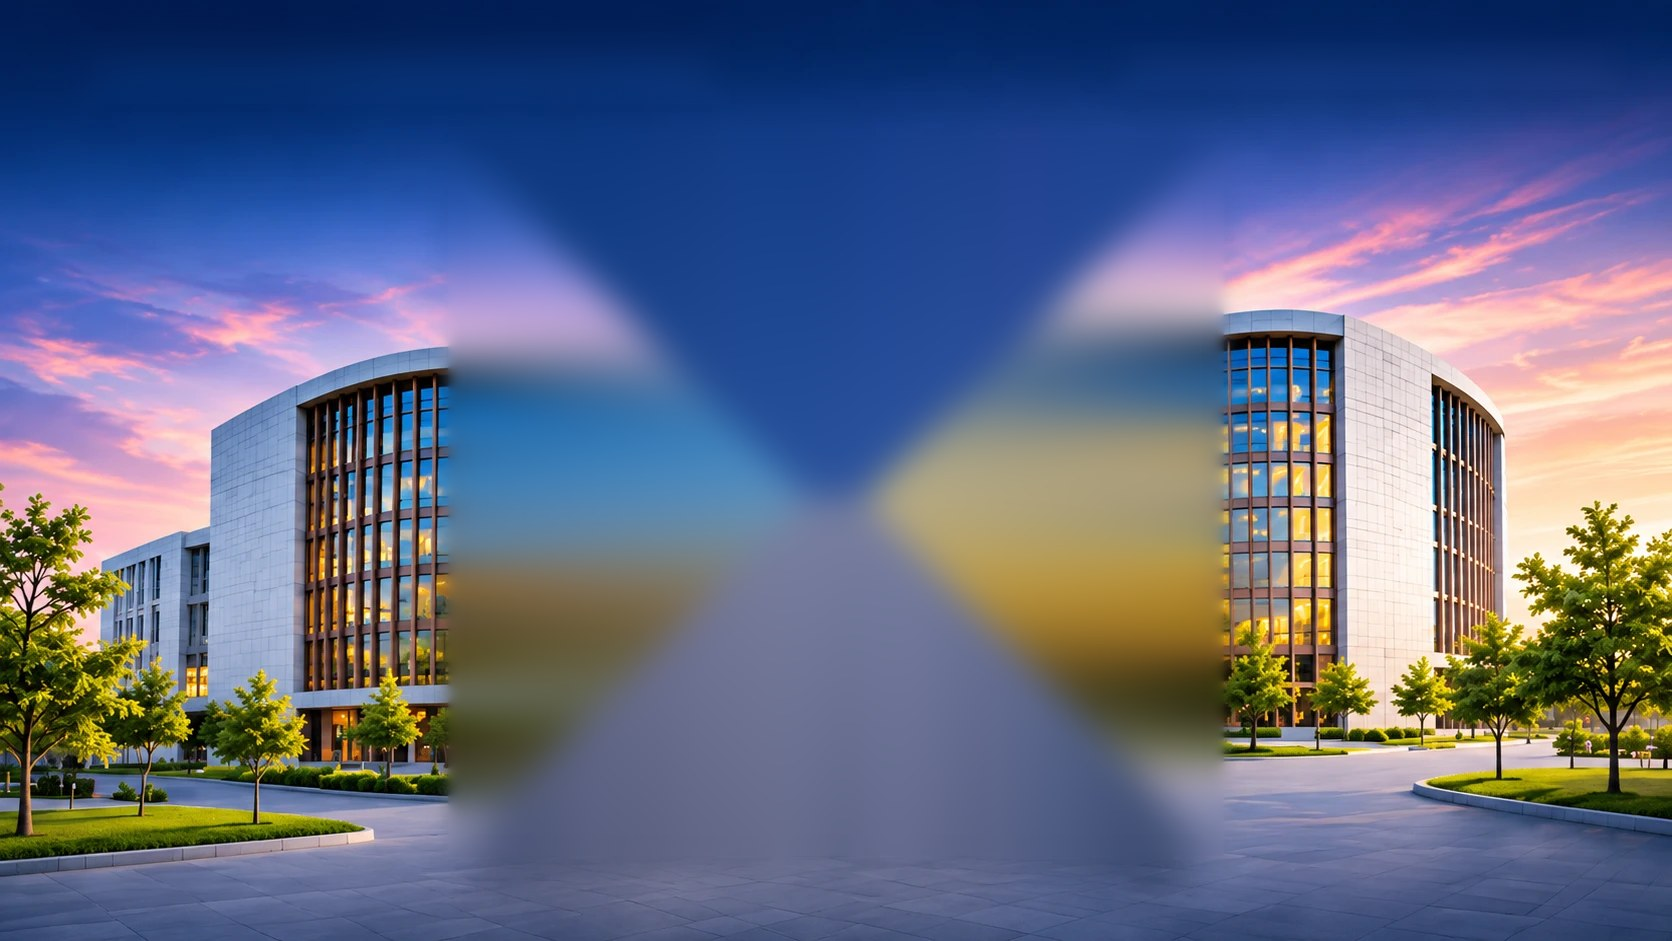
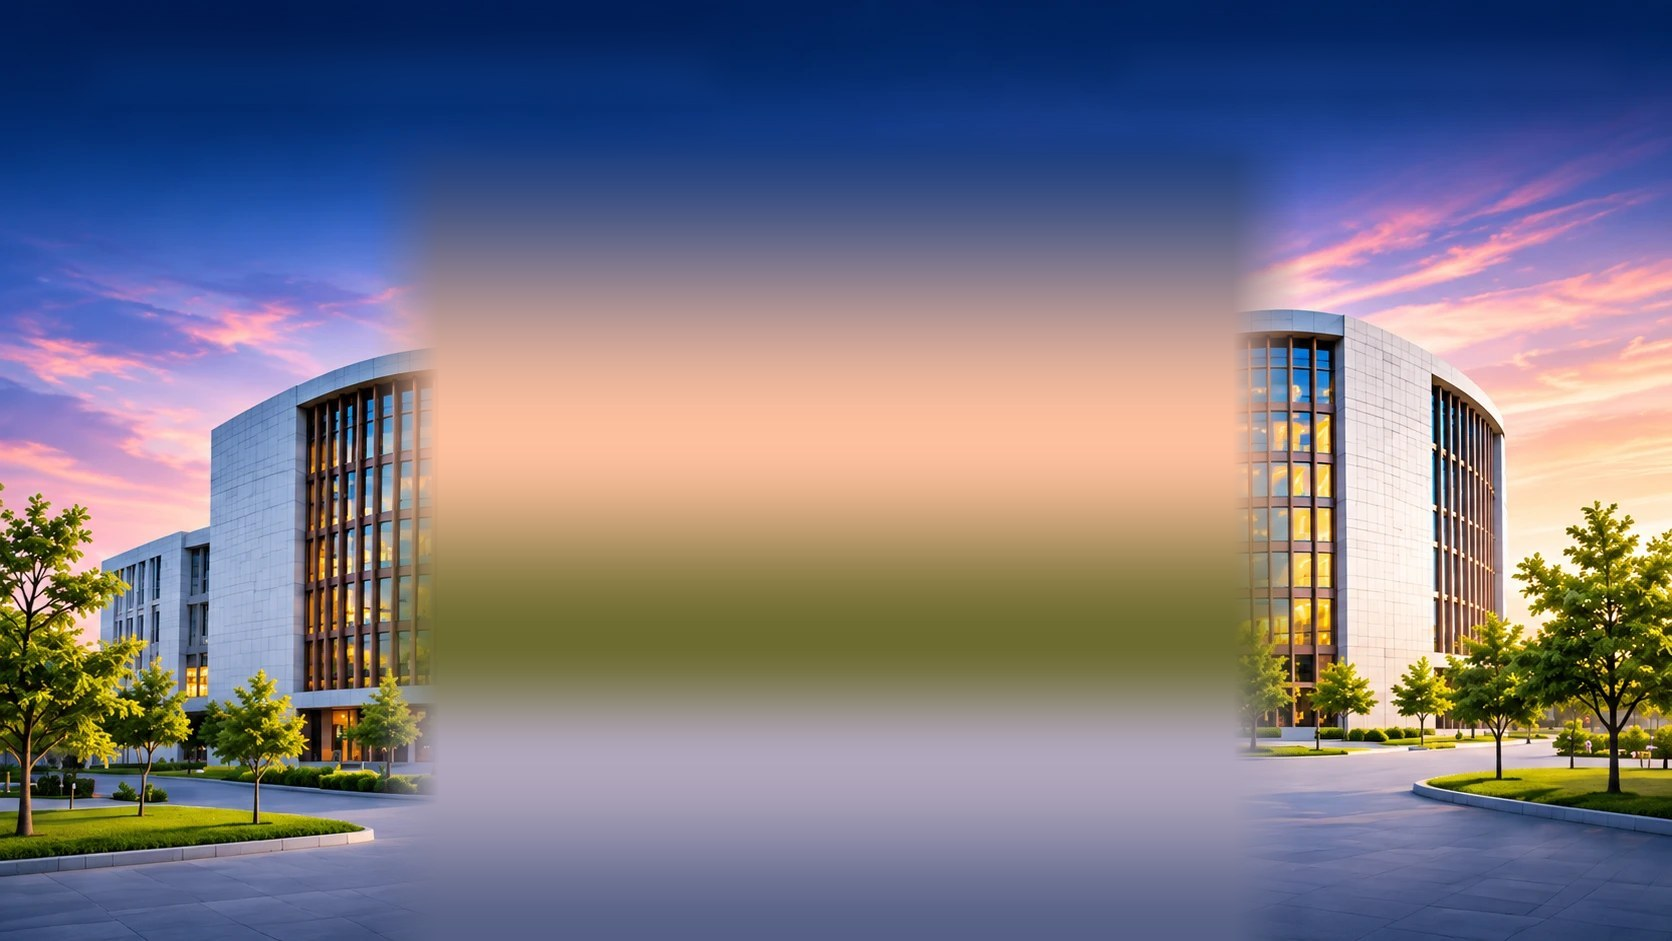
Scale down admin panel and login sizes
Smaller header, dashboard, cards and bottom navigation, and a smaller
login card with a cleaner background behind it.

Claude-Session: https://claude.ai/code/session_014YvDPBootqgctRnM4U9Chs

diff --git a/public/admin.css b/public/admin.css
@@ -39,35 +39,35 @@ body {
 .topbar {
   position: sticky; top: 0; z-index: 20;
   display: flex; justify-content: space-between; align-items: center; gap: 16px;
-  padding: 14px clamp(16px, 4vw, 56px);
+  padding: 9px clamp(16px, 4vw, 56px);
   background: rgba(244, 247, 252, .92);
   backdrop-filter: blur(10px);
   border-bottom: 1px solid var(--border);
 }
 .tb-brand { display: flex; align-items: center; gap: 14px; min-width: 0; }
-.tb-brand img { height: 52px; }
+.tb-brand img { height: 38px; }
 .tb-word { display: flex; flex-direction: column; line-height: 1; }
-.tb-word b { font-size: 1.55rem; font-weight: 900; letter-spacing: .01em; }
-.tb-word small { font-size: .95rem; font-weight: 700; letter-spacing: .28em; margin-top: 3px; }
-.tb-divider { width: 2px; height: 40px; background: var(--navy); margin: 0 14px; }
-.tb-title { font-size: 1.45rem; font-weight: 700; white-space: nowrap; }
+.tb-word b { font-size: 1.15rem; font-weight: 900; letter-spacing: .01em; }
+.tb-word small { font-size: .7rem; font-weight: 700; letter-spacing: .28em; margin-top: 3px; }
+.tb-divider { width: 2px; height: 30px; background: var(--navy); margin: 0 14px; }
+.tb-title { font-size: 1.08rem; font-weight: 700; white-space: nowrap; }
 .tb-actions { display: flex; align-items: center; gap: 14px; }
-.tb-sep { width: 1px; height: 36px; background: var(--border); }
+.tb-sep { width: 1px; height: 28px; background: var(--border); }
 
 .icon-btn {
   position: relative; display: grid; place-items: center;
-  width: 48px; height: 48px; border-radius: 50%;
+  width: 38px; height: 38px; border-radius: 50%;
   border: 0; background: transparent; color: var(--navy); cursor: pointer;
 }
 .icon-btn:hover { background: rgba(16, 36, 79, .06); }
-.icon-btn .icon { width: 28px; height: 28px; }
-.dot { position: absolute; top: 7px; right: 8px; width: 12px; height: 12px; border-radius: 50%; background: var(--accent); border: 2px solid #fff; }
+.icon-btn .icon { width: 22px; height: 22px; }
+.dot { position: absolute; top: 5px; right: 6px; width: 10px; height: 10px; border-radius: 50%; background: var(--accent); border: 2px solid #fff; }
 
-.account { display: flex; align-items: center; gap: 12px; padding: 4px 8px 4px 4px; border: 0; background: none; color: var(--navy); font: inherit; font-weight: 700; font-size: 1.15rem; cursor: pointer; border-radius: 999px; }
+.account { display: flex; align-items: center; gap: 12px; padding: 4px 8px 4px 4px; border: 0; background: none; color: var(--navy); font: inherit; font-weight: 700; font-size: .95rem; cursor: pointer; border-radius: 999px; }
 .account:hover { background: rgba(16, 36, 79, .06); }
-.avatar { display: grid; place-items: center; width: 50px; height: 50px; border-radius: 50%; background: var(--navy); color: #fff; }
-.avatar .icon { width: 26px; height: 26px; }
-.chevron { width: 20px; height: 20px; stroke-width: 2.4; }
+.avatar { display: grid; place-items: center; width: 36px; height: 36px; border-radius: 50%; background: var(--navy); color: #fff; }
+.avatar .icon { width: 19px; height: 19px; }
+.chevron { width: 16px; height: 16px; stroke-width: 2.4; }
 
 .menu-wrap { position: relative; }
 .menu {
@@ -90,12 +90,12 @@ body {
 /* ---- Page ---- */
 .main {
   width: 100%; max-width: 1480px; margin: 0 auto;
-  padding: 26px clamp(16px, 4vw, 56px) 140px;
+  padding: 18px clamp(16px, 4vw, 56px) 104px;
 }
-.main h1 { margin: 0; font-size: 2.6rem; font-weight: 900; letter-spacing: -.01em; }
-.section { display: flex; flex-direction: column; gap: 20px; }
-.section > h1 { margin-bottom: 4px; font-size: 2rem; }
-.sub { margin: 6px 0 0; font-size: 1.2rem; color: var(--muted); }
+.main h1 { margin: 0; font-size: 1.9rem; font-weight: 900; letter-spacing: -.01em; }
+.section { display: flex; flex-direction: column; gap: 16px; }
+.section > h1 { margin-bottom: 2px; font-size: 1.6rem; }
+.sub { margin: 4px 0 0; font-size: .98rem; color: var(--muted); }
 
 .card {
   background: var(--card);
@@ -111,17 +111,17 @@ body {
 /* ---- Dashboard ---- */
 .page-head { display: flex; justify-content: space-between; align-items: flex-start; gap: 16px; flex-wrap: wrap; }
 .date-pill {
-  display: flex; align-items: center; gap: 16px;
-  padding: 14px 26px; border-radius: 18px;
+  display: flex; align-items: center; gap: 12px;
+  padding: 9px 18px; border-radius: 14px;
   background: rgba(255, 255, 255, .75); border: 1.5px solid var(--border);
 }
-.date-pill .icon { width: 36px; height: 36px; stroke-width: 1.7; }
-.date-pill b { display: block; font-size: 1.45rem; font-weight: 700; }
-.date-pill span { display: block; font-size: 1rem; color: var(--muted); margin-top: 2px; }
+.date-pill .icon { width: 26px; height: 26px; stroke-width: 1.7; }
+.date-pill b { display: block; font-size: 1.08rem; font-weight: 700; }
+.date-pill span { display: block; font-size: .82rem; color: var(--muted); margin-top: 2px; }
 
 .hero {
   position: relative; overflow: hidden;
-  min-height: 220px; border-radius: 26px;
+  min-height: 160px; border-radius: 20px;
   display: flex; align-items: center;
   background: linear-gradient(100deg, #F6F7FC 0%, #EEF2FA 45%, #DCE8F8 100%);
   box-shadow: var(--shadow);
@@ -135,20 +135,20 @@ body {
 }
 .hero-text { position: relative; z-index: 1; }
 .hero-text { padding: 28px 46px; }
-.hero h2 { margin: 0; font-size: 2.6rem; font-weight: 900; line-height: 1.1; letter-spacing: -.01em; }
-.hero-rule { display: block; width: 150px; height: 9px; margin-top: 22px; border-radius: 9px; background: linear-gradient(90deg, var(--accent) 0 80%, rgba(238, 37, 87, .15) 100%); box-shadow: 70px 0 0 -2px rgba(238, 37, 87, .1); }
+.hero h2 { margin: 0; font-size: 1.85rem; font-weight: 900; line-height: 1.1; letter-spacing: -.01em; }
+.hero-rule { display: block; width: 120px; height: 7px; margin-top: 16px; border-radius: 9px; background: linear-gradient(90deg, var(--accent) 0 80%, rgba(238, 37, 87, .15) 100%); box-shadow: 70px 0 0 -2px rgba(238, 37, 87, .1); }
 
-.kpis { display: grid; grid-template-columns: repeat(auto-fit, minmax(240px, 1fr)); gap: 20px; }
+.kpis { display: grid; grid-template-columns: repeat(auto-fit, minmax(220px, 1fr)); gap: 14px; }
 .kpi {
-  display: flex; align-items: center; gap: 22px;
-  padding: 22px 24px; border-radius: 20px;
+  display: flex; align-items: center; gap: 14px;
+  padding: 14px 18px; border-radius: 16px;
   background: var(--tint, #fff); border: 1px solid rgba(255, 255, 255, .8);
   box-shadow: var(--shadow);
 }
-.kpi > .icon { width: 50px; height: 50px; color: var(--ink, var(--navy)); stroke-width: 1.7; }
-.kpi > div { display: flex; flex-direction: column; gap: 6px; min-width: 0; }
-.kpi span { font-size: 1.12rem; font-weight: 500; }
-.kpi b { font-size: clamp(1.15rem, 1.4vw, 1.75rem); font-weight: 900; line-height: 1.15; white-space: nowrap; }
+.kpi > .icon { width: 36px; height: 36px; color: var(--ink, var(--navy)); stroke-width: 1.7; }
+.kpi > div { display: flex; flex-direction: column; gap: 3px; min-width: 0; }
+.kpi span { font-size: .9rem; font-weight: 500; }
+.kpi b { font-size: clamp(1rem, 1.1vw, 1.3rem); font-weight: 900; line-height: 1.15; white-space: nowrap; }
 .kpi-blue { --tint: linear-gradient(135deg, #EAF2FE, #F6F9FF); --ink: #2E6BE6; }
 .kpi-pink { --tint: linear-gradient(135deg, #FDECF1, #FFF6F8); --ink: #E3245A; }
 .kpi-gold { --tint: linear-gradient(135deg, #FEF6DF, #FFFBEF); --ink: #EDA800; }
@@ -157,23 +157,23 @@ body {
 .kpis.five { grid-template-columns: repeat(auto-fit, minmax(170px, 1fr)); }
 .kpis.five .kpi { flex-direction: column; align-items: flex-start; gap: 6px; padding: 16px 18px; border-top: 3px solid var(--gold); background: #fff; border-color: var(--border); }
 .kpis.five .kpi span { color: var(--muted); font-size: .9rem; }
-.kpis.five .kpi b { font-size: 1.35rem; }
+.kpis.five .kpi b { font-size: 1.15rem; }
 
 /* ---- Bottom navigation ---- */
 .bottom-nav {
   position: fixed; z-index: 20;
-  left: 50%; bottom: 18px; transform: translateX(-50%);
+  left: 50%; bottom: 12px; transform: translateX(-50%);
   width: min(1480px - 2 * 32px, calc(100% - 24px));
   display: flex; align-items: stretch;
-  padding: 10px; border-radius: 26px;
+  padding: 6px; border-radius: 18px;
   background: var(--navy);
   box-shadow: 0 16px 40px rgba(16, 36, 79, .28);
 }
 .bottom-nav a {
   position: relative; flex: 1;
-  display: flex; flex-direction: column; align-items: center; justify-content: center; gap: 6px;
-  padding: 12px 6px; border-radius: 18px;
-  color: #fff; text-decoration: none; font-size: 1.12rem; font-weight: 500;
+  display: flex; flex-direction: column; align-items: center; justify-content: center; gap: 3px;
+  padding: 7px 4px; border-radius: 13px;
+  color: #fff; text-decoration: none; font-size: .88rem; font-weight: 500;
 }
 .bottom-nav a + a::before {
   content: ""; position: absolute; left: 0; top: 22%; bottom: 22%;
@@ -182,7 +182,7 @@ body {
 .bottom-nav a.active + a::before, .bottom-nav a.active::before { display: none; }
 .bottom-nav a:hover { background: rgba(255, 255, 255, .07); }
 .bottom-nav a.active { background: var(--accent); box-shadow: 0 6px 18px rgba(238, 37, 87, .4); }
-.bottom-nav .icon { width: 34px; height: 34px; stroke-width: 1.7; }
+.bottom-nav .icon { width: 24px; height: 24px; stroke-width: 1.7; }
 
 /* ---- Form controls ---- */
 .app label { display: flex; flex-direction: column; gap: 6px; font-weight: 500; font-size: .93rem; }
@@ -266,8 +266,8 @@ td.auto { color: var(--err); font-weight: 600; }
 
 @media (max-width: 1100px) {
   .tb-word, .tb-divider { display: none; }
-  .bottom-nav a { font-size: .85rem; }
-  .bottom-nav .icon { width: 26px; height: 26px; }
+  .bottom-nav a { font-size: .8rem; }
+  .bottom-nav .icon { width: 22px; height: 22px; }
   .chart-grid { grid-template-columns: 1fr; }
 }
 
@@ -277,11 +277,11 @@ td.auto { color: var(--err); font-weight: 600; }
   .tb-title { font-size: 1.05rem; }
   #account-name, .chevron, .tb-sep { display: none; }
   .avatar { width: 40px; height: 40px; }
-  .main h1 { font-size: 2rem; }
+  .main h1 { font-size: 1.6rem; }
   .hero { min-height: 160px; }
   .hero::after { width: 100%; opacity: .35; }
   .hero-text { padding: 22px; }
-  .hero h2 { font-size: 1.6rem; }
+  .hero h2 { font-size: 1.35rem; }
   .bottom-nav { bottom: 8px; padding: 6px; border-radius: 18px; }
   .bottom-nav a { padding: 8px 2px; border-radius: 12px; }
   .bottom-nav a span { display: none; }

diff --git a/public/login.css b/public/login.css
@@ -5,7 +5,7 @@
   display: flex; flex-direction: column;
   padding: 1.1em 4em 2em 4.9em;
   font-family: "Roboto", "Segoe UI", system-ui, sans-serif;
-  font-size: clamp(12px, min(0.95vw, 1.69vh), 24px);
+  font-size: clamp(10px, min(0.68vw, 1.2vh), 17px);
   color: #fff;
   background: #1A2F7A url("assets/admin-bg.jpg") center / cover no-repeat;
 }
